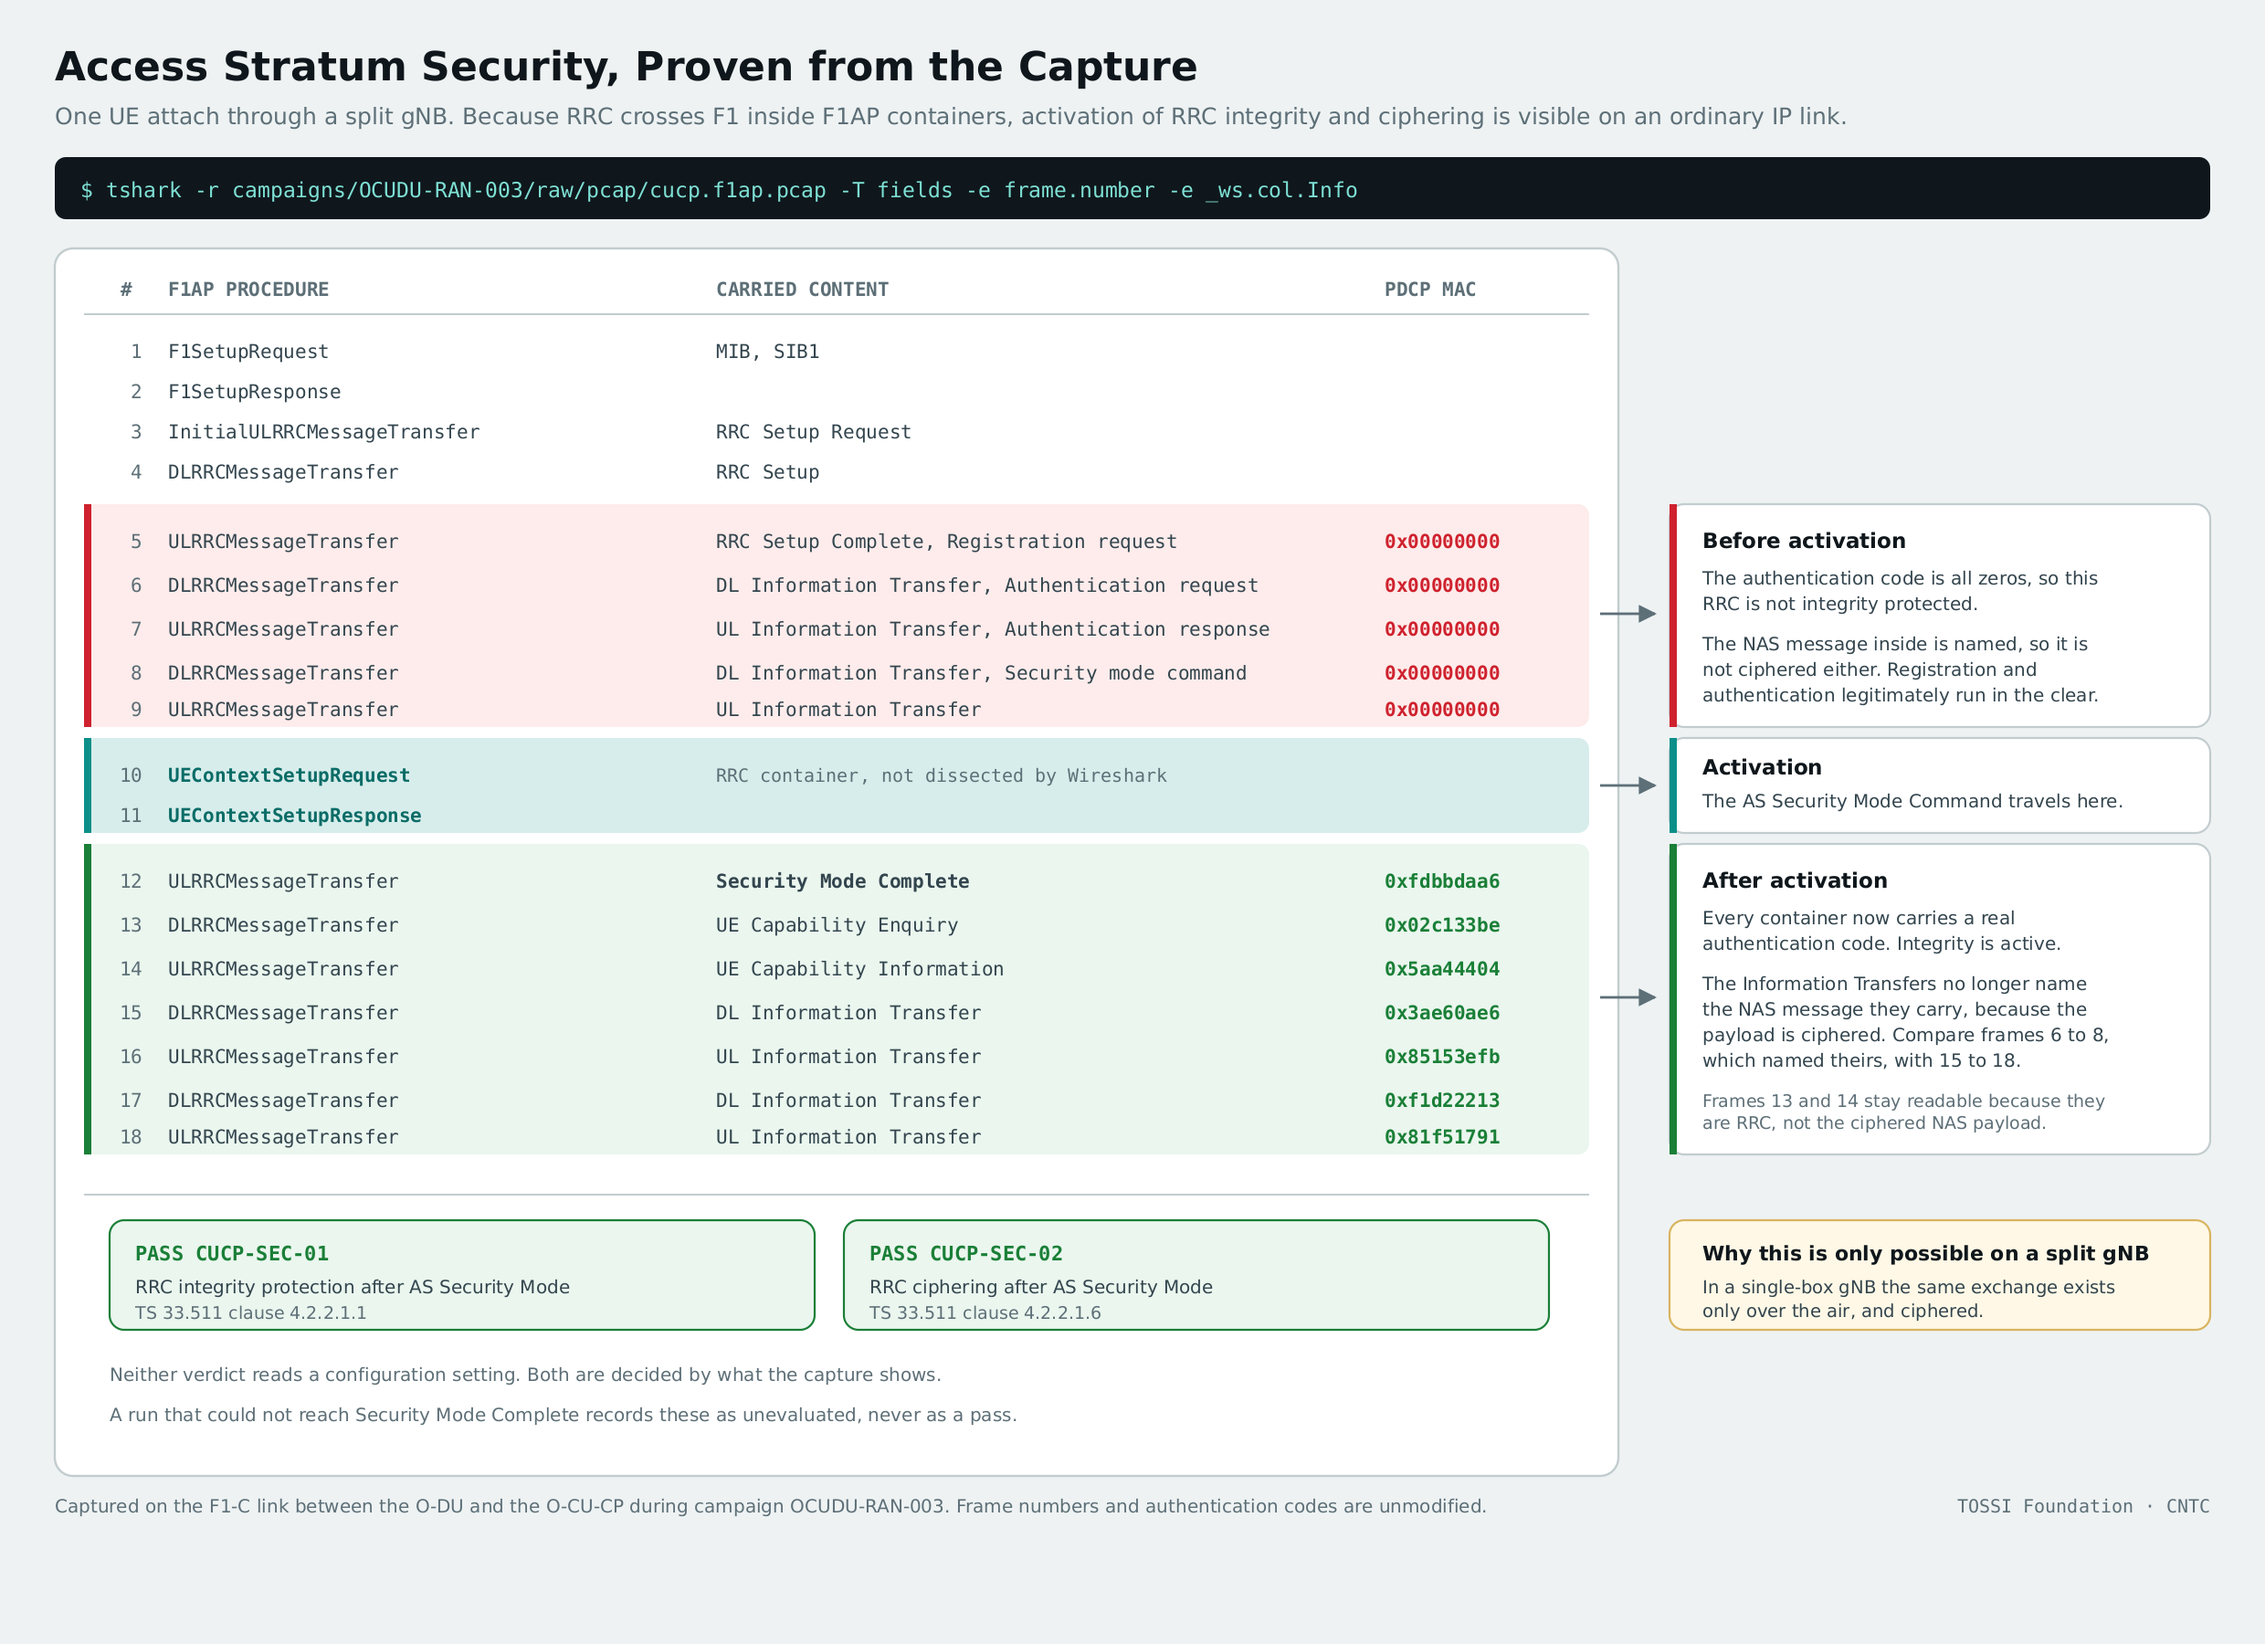
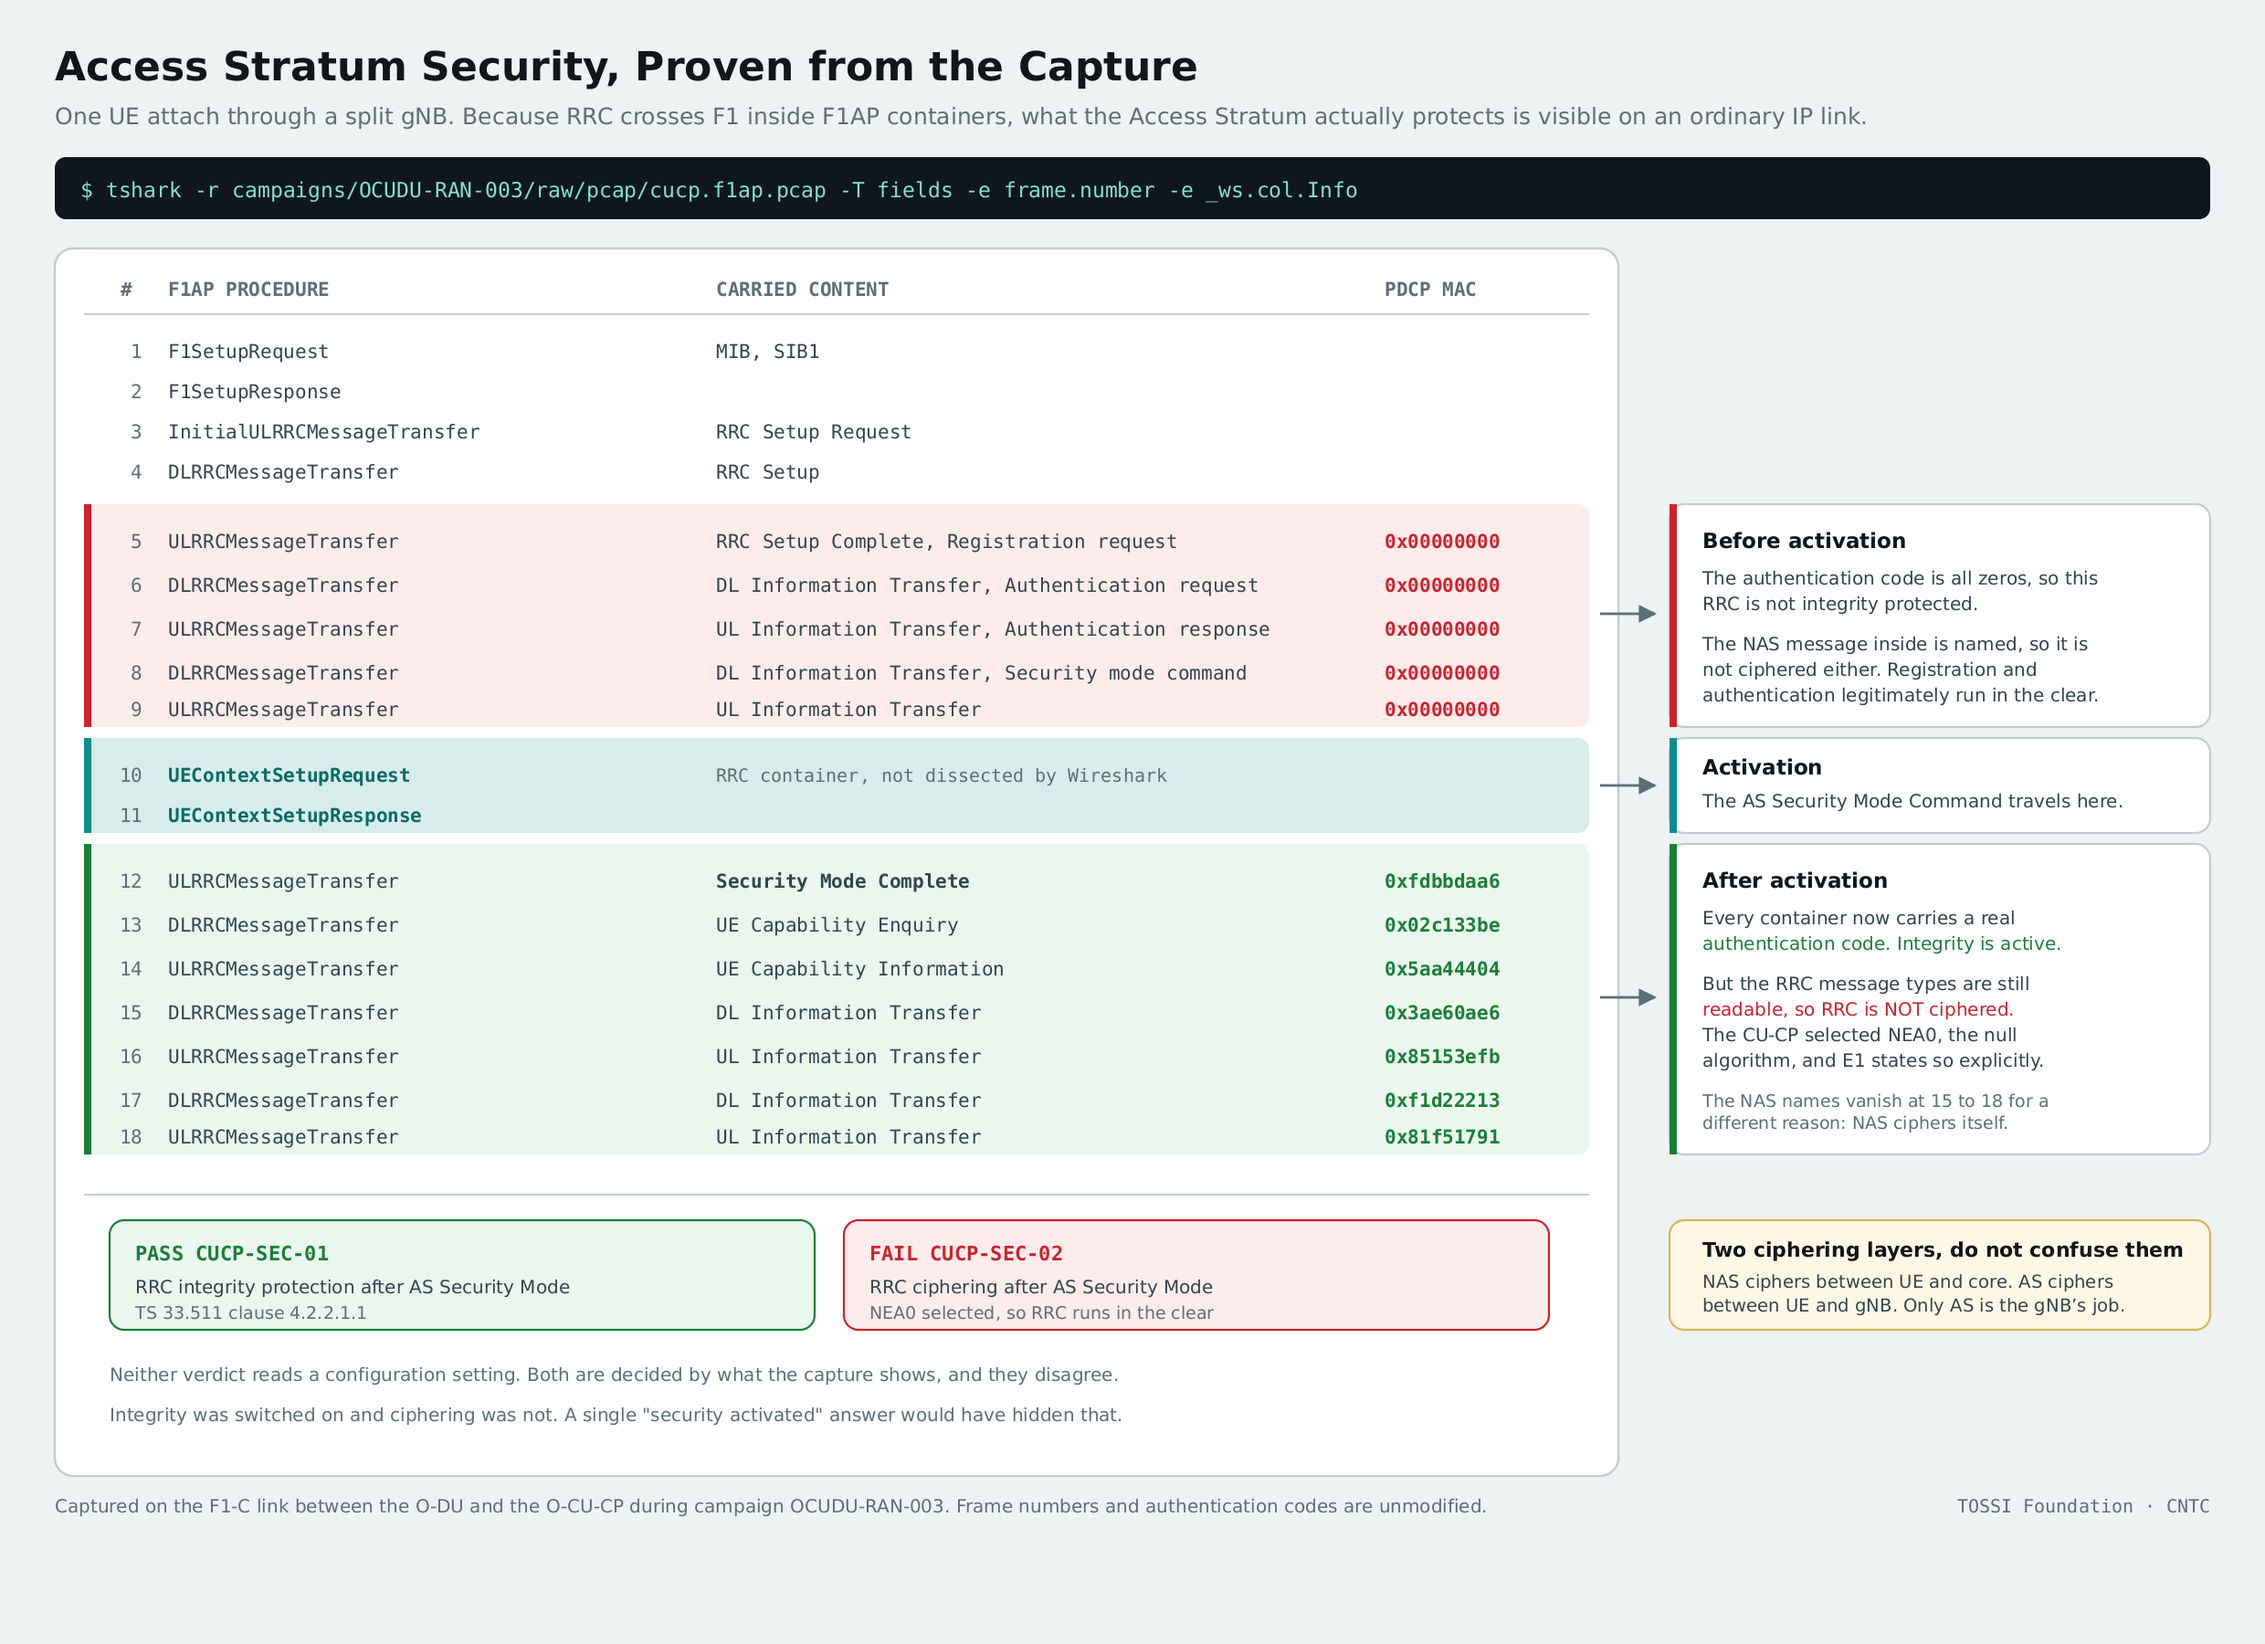
ranbench: CUCP-SEC-02 was reading NAS ciphering and calling it RRC ciphering
A second false pass of the same kind as the user-plane one, found while explaining the security
figure rather than while testing.

The case judged RRC ciphering by whether the NAS message name disappeared from the F1AP decode
after Security Mode Complete. It does disappear, so the case passed. But that has nothing to do
with the Access Stratum: NAS runs its own security between the UE and the AMF, and NAS payloads
go opaque once the NAS Security Mode procedure completes whatever the gNB is doing. The two
security layers were being conflated.

The capture says plainly what is happening once you look at the right thing. The RRC layer still
dissects after Security Mode Complete, frames 13 to 18 included, so RRC message types are
readable and RRC is not ciphered. The E1 Bearer Context Setup gives the reason: the CU-CP
selected cipheringAlgorithm nEA0, the null algorithm. Integrity is correctly 128-NIA2, which is
why the authentication codes are real and CUCP-SEC-01 genuinely passes.

The case now judges the selected algorithm, which the CU-CP states on E1, corroborated by
whether the RRC layer still decodes. Both signals agree, and CUCP-SEC-02 fails on this
deployment as it always should have. Verified by re-running the O-CU-CP suite: 12 of 16
essential pass, 3 fail, and the three failures are NEA0 for RRC, NEA0 under a required
confidentiality policy, and no NG recovery.

The figure is corrected with it. It now shows that integrity was switched on and ciphering was
[…]

diff --git a/ranbench/suites/cucp/checks.py b/ranbench/suites/cucp/checks.py
@@ -277,19 +277,47 @@ class CucpSec01(RanTestCase):
 
 class CucpSec02(RanTestCase):
     id, name, target = "CUCP-SEC-02", "RRC ciphering after AS SMC", "cucp"
+
     def run(self, ctx: RunContext):
+        """RRC signalling must be ciphered once Access Stratum security is active.
+
+        Judged on the ciphering algorithm the CU-CP selected, which it states on E1, and
+        corroborated by whether the RRC layer still decodes after Security Mode Complete.
+        Ciphered RRC is opaque, so readable message types are direct evidence it is in the clear.
+
+        What this must NOT do is infer ciphering from the NAS message name disappearing. NAS runs
+        its own security between the UE and the AMF, so NAS payloads go opaque after the NAS
+        Security Mode procedure regardless of the Access Stratum. An earlier version of this case
+        read exactly that and reported a PASS for RRC that was never ciphered.
+        """
         o = rc.observation(ctx)
-        s = o.get("as_security")
-        if not s or not s.get("smp"):
+        a = o.get("as_security")
+        r = o.get("rrc_ciphering")
+        s = o.get("security_info")
+        if not a or not a.get("smp"):
             return TestResult(self.id, self.name, "na",
-                              notes="no post-SMC RRC captured, so ciphering cannot be judged")
-        if s["ciphered"]:
-            return TestResult(self.id, self.name, "pass", metrics=s,
-                              notes="RRC containers after AS SMC no longer expose their inner "
-                                    "NAS message, ciphering applied [TS 33.511 §4.2.2.1.6]")
-        return TestResult(self.id, self.name, "fail", metrics=s,
-                          notes="RRC after AS SMC still renders its plaintext content, not "
-                                "ciphered [TS 33.511 §4.2.2.1.6]")
+                              notes="the attach never reached Security Mode Complete, so RRC "
+                                    "ciphering cannot be judged")
+        metrics = {k: v for k, v in (r or {}).items()}
+        if s and s.get("seen"):
+            metrics["ciphering"] = s["ciphering"]
+            if s["ciphering_null"]:
+                extra = (" (confirmed: RRC message types are still readable after Security Mode "
+                         "Complete)") if (r or {}).get("rrc_readable_after_smc") else ""
+                return TestResult(self.id, self.name, "fail", metrics=metrics,
+                                  notes=f"the CU-CP selected {s['ciphering']}, so RRC signalling "
+                                        f"is not ciphered{extra} [TS 33.511 §4.2.2.1.6]")
+        if r is None:
+            return TestResult(self.id, self.name, "na",
+                              notes="no F1AP capture to judge RRC ciphering from")
+        if r.get("rrc_readable_after_smc"):
+            return TestResult(self.id, self.name, "fail", metrics=metrics,
+                              notes=f"RRC message types are still readable after Security Mode "
+                                    f"Complete (frames {r.get('readable_frames')}), so RRC is "
+                                    f"not ciphered [TS 33.511 §4.2.2.1.6]")
+        return TestResult(self.id, self.name, "pass", metrics=metrics,
+                          notes="RRC is opaque after Security Mode Complete, so ciphering is "
+                                "applied [TS 33.511 §4.2.2.1.6]")
 
 
 class CucpSec03(RanTestCase):

diff --git a/ranbench/observers/wire.py b/ranbench/observers/wire.py
@@ -117,19 +117,50 @@ class WireObserver:
                 if smp_idx is not None and i >= smp_idx
                 for m in [self._MAC_RE.search(l)] if m]
         nonzero_post = [m for m in post if m != "00000000"]
-        # A ciphered RRC container no longer renders the NAS message name it carries: after the
-        # SMC we expect bare "DL/UL Information Transfer" rather than "... , <NAS message>".
-        after = lines[smp_idx + 1:] if smp_idx is not None else []
-        transfers = [l for l in after if "information transfer" in l.lower()]
-        opaque = [l for l in transfers if l.lower().split("mac=")[0].count(",") <= 1]
+        # Ciphering is judged separately, by rrc_ciphering(): whether the NAS message name
+        # disappears is NOT evidence of RRC ciphering, because NAS carries its own security and
+        # becomes opaque once the NAS Security Mode procedure completes, entirely independently
+        # of the Access Stratum.
         return {
             "smc": smc_idx is not None,
             "smp": smp_idx is not None,
             "pre_smc_macs": sorted(set(pre)),
             "post_smc_macs": sorted(set(nonzero_post)),
             "integrity_activated": bool(nonzero_post) and all(m == "00000000" for m in pre),
-            "ciphered": bool(transfers) and len(opaque) == len(transfers),
         }
+
+    def rrc_ciphering(self, f1ap_pcap: str) -> dict | None:
+        """Whether RRC itself is ciphered after Access Stratum security activates.
+
+        The honest test is whether the RRC layer still decodes. Ciphered RRC is opaque, so a
+        dissector cannot name the message; if message types are still readable after Security
+        Mode Complete, RRC is being sent in the clear.
+
+        This deliberately ignores whether the NAS message inside is named. NAS runs its own
+        security between the UE and the AMF, so NAS payloads go opaque after the NAS Security
+        Mode procedure whatever the Access Stratum is doing. Reading that as AS ciphering is a
+        mistake this framework made once already.
+        """
+        rows = self.fields(f1ap_pcap, "nr-rrc", "frame.number")
+        info = self._tshark(f1ap_pcap, "-T", "fields", "-e", "frame.number", "-e", "_ws.col.Info")
+        if rows is None or info is None:
+            return None
+        smp_frame = None
+        for line in info.splitlines():
+            num, _, text = line.partition("\t")
+            if "security mode complete" in text.lower():
+                try:
+                    smp_frame = int(num)
+                except ValueError:
+                    pass
+                break
+        if smp_frame is None:
+            return {"smp": False}
+        readable = sorted({int(r[0]) for r in rows if r and r[0].strip().isdigit()
+                           and int(r[0]) > smp_frame})
+        return {"smp": True, "smp_frame": smp_frame,
+                "rrc_readable_after_smc": bool(readable),
+                "readable_frames": readable[:8]}
 
     # --- user plane -----------------------------------------------------------
     def gtpu(self, pcap: str) -> dict | None:

diff --git a/ranbench/drivers/ue_oai_zmq.py b/ranbench/drivers/ue_oai_zmq.py
@@ -254,6 +254,7 @@ class Driver(BaseDriver):
                     obs[f"lines.{slot}"] = observer.info_lines(path)
                 if iface == "f1ap" and tgt == "cucp":
                     obs["as_security"] = observer.as_security(path)
+                    obs["rrc_ciphering"] = observer.rrc_ciphering(path)
                 if iface == "e1ap" and tgt == "cucp":
                     obs["security_info"] = observer.security_info(path)
                 if iface == "ngap":
